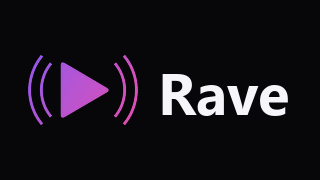
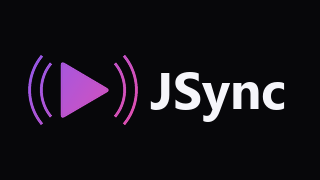
chore: l'app si chiama JSync — Sync your films
Nome visibile, schema inviti jsync:// (accetta ancora rave://), bundle id
com.thecomputer07.jsync, banner TV. Chiavi di salvataggio interne invariate per non
perdere i login; slug Expo resta rave (progetto collegato su expo.dev).

Changed region(s): [[0.4688, 0.3889, 0.9062, 0.6944]]

diff --git a/src/app/(tabs)/groups.tsx b/src/app/(tabs)/groups.tsx
@@ -125,7 +125,7 @@ export default function Groups() {
               />
               <Text style={styles.hint}>
                 {tv
-                  ? 'Inquadra il QR con la fotocamera del telefono (app Rave → Gruppi → Scansiona).'
+                  ? 'Inquadra il QR con la fotocamera del telefono (app JSync → Gruppi → Scansiona).'
                   : 'Chi riceve l’invito deve avere un account su questo server.'}
               </Text>
             </View>
@@ -149,7 +149,7 @@ export default function Groups() {
               icon={<Ionicons name="add" size={20} color={colors.text} />}
               loading={busy === 'create'}
               hasTVPreferredFocus={tv}
-              onPress={() => run('create', () => syncplay!.create(name.trim() || `Serata di ${account?.userName ?? 'Rave'}`))}
+              onPress={() => run('create', () => syncplay!.create(name.trim() || `Serata di ${account?.userName ?? 'JSync'}`))}
             />
           </View>
 
@@ -182,7 +182,7 @@ export default function Groups() {
                 onPress={() => router.push('/scan')}
               />
             ) : null}
-            <Input placeholder="Incolla qui il link rave://…" value={paste} onChangeText={setPaste} autoCapitalize="none" />
+            <Input placeholder="Incolla qui il link jsync://…" value={paste} onChangeText={setPaste} autoCapitalize="none" />
             <View style={{ flexDirection: 'row', gap: space.sm }}>
               {Platform.OS !== 'web' && !tv ? (
                 <Button
@@ -198,7 +198,7 @@ export default function Groups() {
                 disabled={!paste.trim()}
                 onPress={() => {
                   const inv = parseInvite(paste);
-                  if (!inv) return toast('Non è un invito Rave valido.', 'error');
+                  if (!inv) return toast('Non è un invito JSync valido.', 'error');
                   router.push({ pathname: '/join', params: { s: inv.server, g: inv.groupId, n: inv.groupName } });
                 }}
               />

diff --git a/src/lib/invite.ts b/src/lib/invite.ts
@@ -1,11 +1,11 @@
 import * as Linking from 'expo-linking';
 
 /**
- * Invito a un gruppo. Nessun server di Rave in mezzo: il link contiene solo
+ * Invito a un gruppo. Nessun server di JSync in mezzo: il link contiene solo
  * l'indirizzo del server Jellyfin e l'id del gruppo SyncPlay. Chi lo apre entra
  * col proprio account di quel server.
  *
- *   rave://join?s=<url server>&g=<id gruppo>&n=<nome gruppo>
+ *   jsync://join?s=<url server>&g=<id gruppo>&n=<nome gruppo>
  */
 export interface Invite {
   server: string;
@@ -16,22 +16,22 @@ export interface Invite {
 export function buildInviteLink(inv: Invite) {
   const q = new URLSearchParams({ s: inv.server, g: inv.groupId });
   if (inv.groupName) q.set('n', inv.groupName);
-  return `rave://join?${q.toString()}`;
+  return `jsync://join?${q.toString()}`;
 }
 
 export function buildInviteMessage(inv: Invite, from?: string) {
   const link = buildInviteLink(inv);
   return (
-    `${from ? `${from} ti invita` : 'Sei invitato'} a guardare insieme su Rave` +
+    `${from ? `${from} ti invita` : 'Sei invitato'} a guardare insieme su JSync` +
     (inv.groupName ? ` nel gruppo «${inv.groupName}»` : '') +
-    `.\n\nApri il link con l'app Rave:\n${link}\n\n` +
+    `.\n\nApri il link con l'app JSync:\n${link}\n\n` +
     `Server Jellyfin: ${inv.server}\n(Serve un account su quel server.)`
   );
 }
 
-/** Accetta il link rave://, un testo che lo contiene, o il QR. */
+/** Accetta il link jsync:// (o il vecchio rave://), un testo che lo contiene, o il QR. */
 export function parseInvite(text: string): Invite | null {
-  const m = text.match(/rave:\/\/join\?[^\s]+/i);
+  const m = text.match(/(?:jsync|rave):\/\/join\?[^\s]+/i);
   if (!m) return null;
   try {
     const parsed = Linking.parse(m[0]);

diff --git a/src/app/connect.tsx b/src/app/connect.tsx
@@ -39,7 +39,8 @@ export default function Connect() {
           <ScrollView contentContainerStyle={styles.wrap} keyboardShouldPersistTaps="handled">
             <View style={styles.brand}>
               <Image source={require('@/assets/images/splash-icon.png')} style={styles.logo} contentFit="contain" />
-              <Text style={styles.title}>Rave</Text>
+              <Text style={styles.title}>JSync</Text>
+              <Text style={styles.tagline}>Sync your films</Text>
               <Text style={styles.subtitle}>
                 Guarda film e serie del tuo server Jellyfin, da solo o insieme agli amici, perfettamente sincronizzati.
               </Text>
@@ -80,7 +81,7 @@ export default function Connect() {
             </View>
 
             <Text style={styles.note}>
-              Rave non ha server propri e non raccoglie dati: si collega solo al server Jellyfin che inserisci tu.
+              JSync non ha server propri e non raccoglie dati: si collega solo al server Jellyfin che inserisci tu.
             </Text>
           </ScrollView>
         </KeyboardAvoidingView>
@@ -102,6 +103,7 @@ const styles = StyleSheet.create({
   brand: { alignItems: 'center', gap: space.sm },
   logo: { width: tv ? 140 : 96, height: tv ? 140 : 96 },
   title: { color: colors.text, fontSize: font.hero, fontWeight: '900', letterSpacing: -0.5 },
+  tagline: { color: colors.accent, fontSize: font.md, fontWeight: '800', letterSpacing: 0.5, marginTop: -4 },
   subtitle: { color: colors.textDim, fontSize: font.md, textAlign: 'center', lineHeight: font.md * 1.4 },
   form: { gap: space.md },
   error: { color: colors.danger, fontSize: font.sm },

diff --git a/src/app/login.tsx b/src/app/login.tsx
@@ -133,7 +133,7 @@ export default function Login() {
               <Text style={styles.qcTitle}>Codice Quick Connect</Text>
               <Text style={styles.qcCode}>{qcCode}</Text>
               <Text style={styles.qcHelp}>
-                Da un dispositivo già collegato apri Jellyfin (o Rave → Impostazioni → Autorizza un dispositivo) e inserisci
+                Da un dispositivo già collegato apri Jellyfin (o JSync → Impostazioni → Autorizza un dispositivo) e inserisci
                 questo codice. Si entra da solo appena lo confermi.
               </Text>
               <Button title="Annulla" variant="ghost" onPress={() => {

diff --git a/src/lib/storage.ts b/src/lib/storage.ts
@@ -18,6 +18,7 @@ export interface StoredAccount extends Account {
   token: string;
 }
 
+// Chiavi interne nate quando l'app si chiamava Rave: non si rinominano (farebbe perdere i login).
 const ACCOUNTS_KEY = 'rave.accounts.v1';
 const ACTIVE_KEY = 'rave.active.v1';
 const SETTINGS_KEY = 'rave.settings.v1';
@@ -61,7 +62,7 @@ export async function setActiveAccount(id: string) {
  * ogni account ha quindi il suo DeviceId, fisso nel tempo.
  */
 export function newDeviceId() {
-  return `rave-${Crypto.randomUUID()}`;
+  return `jsync-${Crypto.randomUUID()}`;
 }
 
 // ── Impostazioni ──

diff --git a/src/app/player.tsx b/src/app/player.tsx
@@ -674,7 +674,7 @@ export default function PlayerScreen() {
 
 /**
  * Quanto questo dispositivo è lontano dalla linea temporale del gruppo (stimata dal server).
- * Ogni client Rave si allinea al server, non agli altri: se qui resti a pochi ms, sei in sync con tutti.
+ * Ogni client JSync si allinea al server, non agli altri: se qui resti a pochi ms, sei in sync con tutti.
  */
 function SyncBadge({ measuring, diffMs, syncing, state, ping }: { measuring: boolean; diffMs: number; syncing: string | null; state: string | null; ping: number }) {
   const abs = Math.abs(diffMs);

diff --git a/src/app/(tabs)/settings.tsx b/src/app/(tabs)/settings.tsx
@@ -115,7 +115,7 @@ export default function SettingsScreen() {
 
       <Section title="Informazioni">
         <Text style={styles.hint}>
-          Rave {APP_VERSION}. Un player per il tuo server Jellyfin: nessun account Rave, nessun server di terze parti, nessun
+          JSync {APP_VERSION} — Sync your films. Un player per il tuo server Jellyfin: nessun account JSync, nessun server di terze parti, nessun
           tracciamento. I dati restano fra questo dispositivo e il tuo server.
         </Text>
       </Section>

diff --git a/src/app/join.tsx b/src/app/join.tsx
@@ -8,7 +8,7 @@ import { useSession } from '@/state/session';
 import { colors, font, space } from '@/theme';
 
 /**
- * Apertura di un invito (rave://join?s=…&g=…&n=…).
+ * Apertura di un invito (jsync://join?s=…&g=…&n=…).
  * - stesso server dell'account attivo → entra nel gruppo
  * - server di un altro account salvato → cambia account e entra
  * - server mai visto → chiede di accedere, poi entra da solo

diff --git a/src/lib/jellyfin/playback.ts b/src/lib/jellyfin/playback.ts
@@ -34,7 +34,7 @@ export function buildDeviceProfile(opts: { maxBitrate: number; burnSubtitles: bo
       ];
 
   return {
-    Name: `Rave ${Platform.OS}${tv ? ' TV' : ''}`,
+    Name: `JSync ${Platform.OS}${tv ? ' TV' : ''}`,
     MaxStreamingBitrate: opts.maxBitrate,
     MaxStaticBitrate: opts.maxBitrate,
     MusicStreamingTranscodingBitrate: 384000,

diff --git a/src/lib/jellyfin/client.ts b/src/lib/jellyfin/client.ts
@@ -12,7 +12,7 @@ import type {
   UserDto,
 } from './types';
 
-export const APP_NAME = 'Rave';
+export const APP_NAME = 'JSync';
 export const APP_VERSION = '1.0.0';
 
 export const TICKS_PER_SECOND = 10_000_000;

diff --git a/README.md b/README.md
@@ -1,10 +1,12 @@
-# Rave — player Jellyfin per guardare insieme
+# JSync — Sync your films
+
+Player Jellyfin per guardare insieme. (Nome di lavoro iniziale: Rave.)
 
 App React Native (Expo SDK 57) per **iPhone, Android e Android TV**. Ognuno inserisce il proprio server
 Jellyfin, accede col proprio account e guarda **film e serie TV** da solo o in **gruppo**, sincronizzato
 al millisecondo con gli altri.
 
-**Non c'è nessun server di Rave.** L'app parla solo col Jellyfin dell'utente. I gruppi sono i gruppi
+**Non c'è nessun server di JSync.** L'app parla solo col Jellyfin dell'utente. I gruppi sono i gruppi
 **SyncPlay** nativi di quel server, e progressi, "continua a guardare" e "salta intro" vivono anch'essi lì.
 Niente da ospitare né da mantenere: si pubblica sugli store e basta.
 
@@ -20,7 +22,7 @@ Musica, libri, audiolibri, foto e TV in diretta sono esclusi apposta: si vedono 
   **salta intro e riassunto** (Media Segments di Jellyfin 10.10+ o plugin Intro Skipper), **prossimo
   episodio** con conto alla rovescia, orizzontale bloccato, barre di sistema nascoste.
 - **Gruppi**: crea, entra, partecipanti; in gruppo play, pausa, salti e prossimo episodio valgono per tutti.
-  **Inviti** tramite link `rave://join?...` condiviso da WhatsApp e simili, QR (anche mostrato sulla TV),
+  **Inviti** tramite link `jsync://join?...` condiviso da WhatsApp e simili, QR (anche mostrato sulla TV),
   scansione QR o incolla link. Chi apre l'invito entra col **suo** account di quel server.
 - **Android TV**: focus del telecomando su ogni elemento, D-pad nel player (sinistra/destra = ±10 s),
   tasti multimediali, banner del launcher.
@@ -56,8 +58,9 @@ per tornare al React Native standard.
 
 ## Prima di pubblicare sugli store
 
-- **Nome**: "Rave" è già il nome di un'app di watch party molto nota ("Rave – Watch Party").
-  Serve un nome diverso per evitare il rifiuto o un reclamo per il marchio.
+- **Nome**: **JSync**, sottotitolo "Sync your films". Scartati: "Rave" (esiste già "Rave – Watch Party"),
+  "rsync" (è un protocollo noto, e `rsync://` è già il suo schema), "JPlayer" (già un lettore video
+  sull'App Store e su Google Play). Il nome va prenotato in App Store Connect appena c'è l'account.
 - **Revisione Apple**: ai revisori va dato un server di prova. Va bene quello demo pubblico di
   Jellyfin (`https://demo.jellyfin.org/stable`, utente `demo`, senza password), che l'app propone
   anche da un pulsante. Nelle note va spiegato che è un client per server personali, come Swiftfin
@@ -65,7 +68,8 @@ per tornare al React Native standard.
 - **Privacy**: l'app non raccoglie dati, quindi in App Store Connect si dichiara "Dati non raccolti".
   `NSAllowsArbitraryLoads` è attivo perché molti server Jellyfin sono in http su rete locale; ad Apple
   va motivato così.
-- **Bundle id** provvisorio: `com.thecomputer07.rave` (in `app.json`).
+- **Bundle id**: `com.thecomputer07.jsync`, schema inviti `jsync://`. Lo slug Expo resta `rave` (progetto
+  `@thecomputer07/rave` su expo.dev, invisibile agli utenti).
 
 ## Struttura
 
